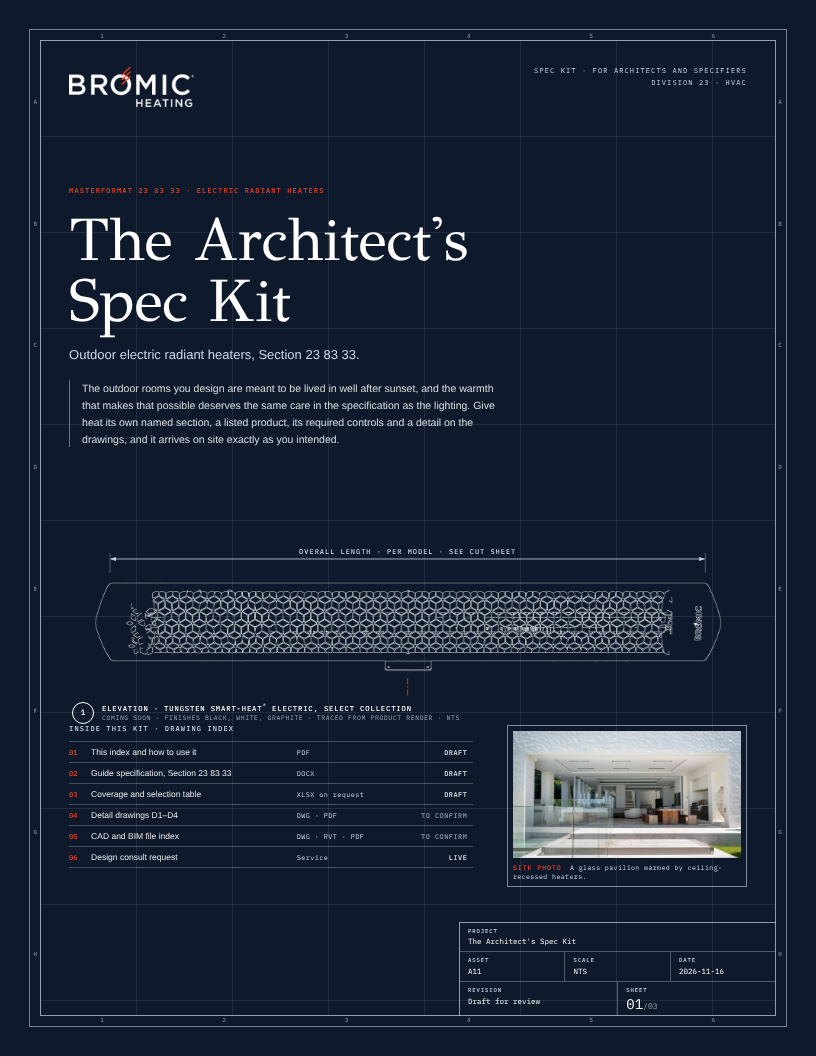
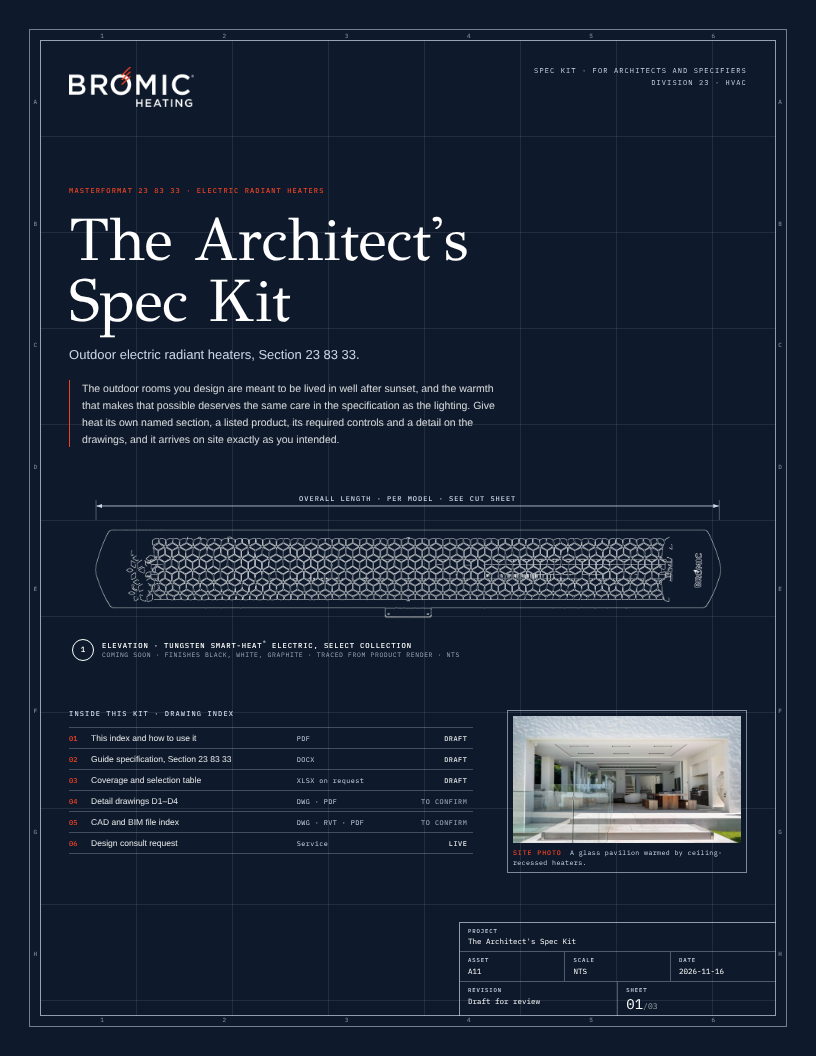
Design themes: Blueprint sample done; four-theme board

Changed region(s): [[0.0919, 0.4688, 0.8885, 0.6875], [0.0613, 0.6562, 0.5821, 0.8125], [0.6127, 0.6562, 0.9191, 0.8438]]

diff --git a/reports/themes/blueprint/sample.html b/reports/themes/blueprint/sample.html
@@ -36,7 +36,7 @@ h1,h2,h3{font-family:BzDidot,Didot,serif;font-weight:400;letter-spacing:-.005em}
 .c-head h1{font-size:60px;line-height:1.02;margin:14px 0 14px;color:#fff}
 .c-sub{font:400 13px/1.4 BzSans,sans-serif;color:#C9D6E8;margin-bottom:16px}
 .c-lede{font:400 10.5px/1.6 BzSans,sans-serif;color:rgba(255,255,255,.82);max-width:4.6in;padding-left:12px;border-left:.8px solid #EF4123}
-.c-elev{position:absolute;left:.72in;right:.72in;top:5.55in}
+.c-elev{position:absolute;left:.72in;right:.72in;top:5.0in}
 .c-elev img{display:block;width:6.66in;margin:0 auto;opacity:.95}
 .c-dim{display:block;width:6.66in;margin:0 auto 2px;overflow:visible}
 .c-cl{display:block;width:6.66in;height:.19in;margin:0 auto}
@@ -46,10 +46,9 @@ figcaption{display:flex;gap:8px;align-items:center}
 figcaption b{display:block;font:500 7.2px/1.3 BzMono,monospace;letter-spacing:.12em}
 figcaption em{display:block;font:400 6.4px/1.4 BzMono,monospace;letter-spacing:.1em;font-style:normal;opacity:.75;margin-top:1px}
 .bubble{flex:none;width:22px;height:22px;border-radius:50%;border:.8px solid currentColor;display:grid;place-items:center;font:500 7.5px/1 BzMono,monospace;position:relative}
-.bubble::after{content:"";position:absolute;left:100%;top:50%;width:3.2in;border-top:.6px solid currentColor;opacity:.0}
-.c-elev figcaption{margin:6px 0 0 .03in;color:#fff}
+.c-elev figcaption{margin:14px 0 0 .03in;color:#fff}
 .c-elev figcaption em{color:#C9D6E8}
-.c-low{position:absolute;left:.72in;right:.72in;top:7.55in;display:grid;grid-template-columns:1fr 2.5in;gap:.35in}
+.c-low{position:absolute;left:.72in;right:.72in;top:7.4in;display:grid;grid-template-columns:1fr 2.5in;gap:.35in}
 .index .lbl{color:#C9D6E8;margin-bottom:8px}
 .index table{width:100%;border-collapse:collapse;font-size:8.5px}
 .index td{padding:5px 6px 5px 0;border-top:.5px solid rgba(201,214,232,.28);color:rgba(255,255,255,.88);vertical-align:baseline}
@@ -81,16 +80,15 @@ figcaption em{display:block;font:400 6.4px/1.4 BzMono,monospace;letter-spacing:.
 .sched table{width:100%;border-collapse:collapse;font-size:7.6px;line-height:1.35;color:#231F20}
 .sched th{font:500 5.9px/1.2 BzMono,monospace;letter-spacing:.13em;text-align:left;color:#6B7480;padding:6px 6px 5px 0;border-bottom:.5px solid #B9C3D0}
 .sched td{padding:5px 7px 5px 0;border-bottom:.5px solid #B9C3D0;vertical-align:top}
-.sched td.m{font:400 7.2px/1.35 BzMono,monospace;white-space:nowrap}
-.sched td.ser{font-weight:700;color:#231F20;width:1.25in}
-.sched td.ctl{width:1.6in}
+.sched table.eq{table-layout:fixed}.sched td.m{font:400 7px/1.4 BzMono,monospace}
+.sched td.ser{font-weight:700;color:#231F20}
 .sched td.tag span{display:inline-grid;place-items:center;width:22px;height:13px;border:.7px solid #1C2B44;font:500 6.4px BzMono,monospace;color:#1C2B44}
 .sched tr.soon td{color:#5d5a5b}
 .soon-t{font:500 6px BzMono,monospace;letter-spacing:.1em;text-transform:uppercase;color:#EF4123;white-space:nowrap}
 .sched .tc{color:#6B7480;font-style:italic}
 .fn{font:400 6.4px/1.45 BzMono,monospace;color:#6B7480;margin-top:6px;letter-spacing:.02em}
-.dwgs{position:absolute;left:.72in;right:.72in;top:4.62in;display:grid;grid-template-columns:4.05in 1fr;gap:.25in}
-.lower{position:absolute;left:.72in;right:.72in;top:8.06in;display:grid;grid-template-columns:4.05in 1fr;gap:.25in}
+.dwgs{position:absolute;left:.72in;right:.72in;top:4.4in;display:grid;grid-template-columns:4.05in 1fr;gap:.25in}
+.lower{position:absolute;left:.72in;right:.72in;top:7.42in;display:grid;grid-template-columns:4.05in 1fr;gap:.25in}
 .panel{color:#1C2B44;position:relative}
 .panel figcaption{margin-top:4px;padding-top:6px;border-top:.6px solid #1C2B44}
 .dwg{display:block;width:100%;height:auto;overflow:visible}
@@ -112,9 +110,13 @@ figcaption em{display:block;font:400 6.4px/1.4 BzMono,monospace;letter-spacing:.
 .dwg .zonet{font:500 6px BzMono,monospace;letter-spacing:.14em;fill:#EF4123}
 .dwg .wifi{stroke:#1C2B44;stroke-width:.6;stroke-dasharray:2 2;fill:none}
 .dwg .furnp{fill:#fff;stroke:#6B7480;stroke-width:.6}
-.dwg .foot{fill:rgba(239,65,35,.05);stroke:#EF4123;stroke-width:.6;stroke-dasharray:3 2}
+.dwg .foot{fill:rgba(239,65,35,.035);stroke:#EF4123;stroke-width:.6;stroke-dasharray:3 2}
 .dwg .zone{stroke:#1C2B44;stroke-width:.6;stroke-dasharray:10 3 2 3;fill:none}
 .dwg .ctl{fill:#fff;stroke:#1C2B44;stroke-width:.7}
+.mf{position:absolute;left:.72in;right:.72in;top:5.55in}
+.mf .hdr{display:flex;justify-content:space-between;border-bottom:.9px solid #1C2B44;padding-bottom:5px;margin-bottom:10px;color:#1C2B44}
+.mf .hdr .r{color:#EF4123}
+.dwg .box.hi{stroke:#EF4123;stroke-width:1}.dwg .hit{fill:#EF4123}
 .notes .lbl{color:#1C2B44;border-bottom:.9px solid #1C2B44;padding-bottom:5px;margin-bottom:6px}
 .notes ol{list-style:none;counter-reset:n}
 .notes li{counter-increment:n;position:relative;padding:0 0 5px 18px;font-size:7.4px;line-height:1.45;color:#3a3637}
@@ -123,12 +125,12 @@ figcaption em{display:block;font:400 6.4px/1.4 BzMono,monospace;letter-spacing:.
 .strip .cell{padding:5px 7px;border-right:.5px solid #B9C3D0;display:flex;flex-direction:column;justify-content:space-between;white-space:nowrap}
 .strip .cell:last-child{border-right:0}
 .strip .cell.grow{flex:1;white-space:normal}
-.strip .cell.grow span{font-size:5.4px;line-height:1.35;color:#6B7480}
+.strip .cell.grow span{font-size:6px;line-height:1.35;color:#6B7480}
 .strip b{font-weight:500;font-size:5.4px;letter-spacing:.16em;color:#6B7480}
 .strip .sheet span{font-size:15px;line-height:1;color:#1C2B44}.strip .sheet i{font-style:normal;font-size:8px;color:#6B7480}
 
 /* ---- sheet 3 ---- */
-.p3{position:absolute;left:.72in;right:.72in;top:1.5in;display:grid;grid-template-columns:4.15in 1fr;gap:.3in}
+.p3{position:absolute;left:.72in;right:.72in;top:1.45in;display:grid;grid-template-columns:4.15in 1fr;gap:.3in}
 .legend{display:flex;flex-wrap:wrap;gap:4px 12px;margin-top:6px;font:500 5.8px BzMono,monospace;letter-spacing:.1em;color:#1C2B44}
 .legend span{display:flex;align-items:center;gap:5px}
 .legend i{display:inline-grid;place-items:center;font:500 4.6px BzMono,monospace;font-style:normal}
@@ -140,19 +142,20 @@ figcaption em{display:block;font:400 6.4px/1.4 BzMono,monospace;letter-spacing:.
 .checks li{display:grid;grid-template-columns:12px 18px 1fr;gap:6px;align-items:start;padding:6.4px 0;border-bottom:.5px solid #B9C3D0;font-size:8.2px;line-height:1.42;color:#3a3637}
 .checks .bx{width:9px;height:9px;border:.8px solid #1C2B44;margin-top:1.5px}
 .checks .no{font:500 6.4px/1.9 BzMono,monospace;color:#EF4123}
-.cta{position:absolute;left:.42in;right:.42in;top:6.62in;height:2.6in;background:#0E1A2B;color:#fff;display:grid;grid-template-columns:2.15in 1fr;gap:.35in;padding:.3in .3in .3in .3in;overflow:hidden}
+.cta{position:absolute;left:.42in;right:.42in;top:7.3in;height:2.2in;background:#0E1A2B;color:#fff;display:grid;grid-template-columns:2.15in 1fr;gap:.35in;padding:.3in .3in .3in .3in;overflow:hidden}
 .cta-grid{position:absolute;inset:0;background-image:linear-gradient(rgba(201,214,232,.08) .6px,transparent .6px),linear-gradient(90deg,rgba(201,214,232,.08) .6px,transparent .6px);background-size:1in 1in;background-position:-.42in -.62in}
-.cta>*{position:relative}
+.cta>*{position:relative}.cta>.cta-grid{position:absolute}
 .cta .plate{border-color:rgba(201,214,232,.6)}
-.cta .plate-img{height:1.6in}
+.cta .plate-img{height:1.28in}
 .cta-body{display:flex;flex-direction:column;justify-content:center}
-.cta h3{font-size:25px;line-height:1.18;margin:9px 0 18px;max-width:4.3in}
+.cta h3{font-size:23px;line-height:1.2;margin:8px 0 14px;max-width:4.3in}
 .btn{align-self:flex-start;display:inline-flex;gap:14px;align-items:center;background:#EF4123;color:#fff;font:500 8px/1 BzMono,monospace;letter-spacing:.18em;padding:10px 16px;text-decoration:none}
-.addr{font:400 6.2px/1.5 BzMono,monospace;letter-spacing:.1em;color:#C9D6E8;margin-top:16px}
-.disc{position:absolute;left:.72in;right:.72in;top:9.42in;font-size:6.6px;line-height:1.5;color:#6B7480}
+.addr{font:400 6.2px/1.6 BzMono,monospace;letter-spacing:.1em;color:#C9D6E8;margin-top:12px;max-width:3.9in}
+.disc{position:absolute;left:.72in;right:.72in;top:9.62in;font-size:6.6px;line-height:1.5;color:#6B7480}
 </style></head><body><svg width="0" height="0" style="position:absolute"><defs>
   <marker id="arDs" viewBox="0 0 10 10" refX="0" refY="5" markerWidth="7" markerHeight="7" orient="auto"><path d="M10 1.5 L0 5 L10 8.5" fill="#1C2B44"/></marker>
   <marker id="arDe" viewBox="0 0 10 10" refX="10" refY="5" markerWidth="7" markerHeight="7" orient="auto"><path d="M0 1.5 L10 5 L0 8.5" fill="#1C2B44"/></marker>
+  <marker id="arFe" viewBox="0 0 10 10" refX="10" refY="5" markerWidth="7" markerHeight="7" orient="auto"><path d="M0 1.5 L10 5 L0 8.5" fill="#EF4123"/></marker>
   <marker id="arWs" viewBox="0 0 10 10" refX="0" refY="5" markerWidth="7" markerHeight="7" orient="auto"><path d="M10 1.5 L0 5 L10 8.5" fill="#C9D6E8"/></marker>
   <marker id="arWe" viewBox="0 0 10 10" refX="10" refY="5" markerWidth="7" markerHeight="7" orient="auto"><path d="M0 1.5 L10 5 L0 8.5" fill="#C9D6E8"/></marker>
   <pattern id="hatch" width="5" height="5" patternUnits="userSpaceOnUse" patternTransform="rotate(45)"><line x1="0" y1="0" x2="0" y2="5" stroke="#1C2B44" stroke-width=".5"/></pattern>
@@ -170,10 +173,9 @@ figcaption em{display:block;font:400 6.4px/1.4 BzMono,monospace;letter-spacing:.
     <p class="c-lede">The outdoor rooms you design are meant to be lived in well after sunset, and the warmth that makes that possible deserves the same care in the specification as the lighting. Give heat its own named section, a listed product, its required controls and a detail on the drawings, and it arrives on site exactly as you intended.</p>
   </div>
   <figure class="c-elev">
-    <svg viewBox="0 0 640 40" class="c-dim"><g><line x1="22" y1="40" x2="22" y2="20" class="ext"/><line x1="618" y1="40" x2="618" y2="20" class="ext"/><line x1="22.5" y1="26" x2="617.5" y2="26" stroke="#C9D6E8" stroke-width=".8" marker-start="url(#arWs)" marker-end="url(#arWe)"/>
+    <svg viewBox="0 0 640 40" class="c-dim"><g><line x1="8" y1="40" x2="8" y2="20" class="ext"/><line x1="632" y1="40" x2="632" y2="20" class="ext"/><line x1="8.5" y1="26" x2="631.5" y2="26" stroke="#C9D6E8" stroke-width=".8" marker-start="url(#arWs)" marker-end="url(#arWe)"/>
   <text x="320" y="21" class="dimt" text-anchor="middle" fill="#C9D6E8">OVERALL LENGTH · PER MODEL · SEE CUT SHEET</text></g></svg>
     <img src="img/select-front-line.png" alt="Elevation of a Tungsten Smart-Heat Electric heater, Select collection, traced from a product render">
-    <svg viewBox="0 0 640 18" class="c-cl"><line x1="320" y1="0" x2="320" y2="18" stroke="#EF4123" stroke-width=".8" stroke-dasharray="6 2 1.5 2"/></svg>
     <figcaption><span class="bubble">1</span><span><b>ELEVATION · TUNGSTEN SMART-HEAT<sup>®</sup> ELECTRIC, SELECT COLLECTION</b><em>COMING SOON · FINISHES BLACK, WHITE, GRAPHITE · TRACED FROM PRODUCT RENDER · NTS</em></span></figcaption>
   </figure>
   <div class="c-low">
@@ -207,11 +209,11 @@ figcaption em{display:block;font:400 6.4px/1.4 BzMono,monospace;letter-spacing:.
   </header>
   <div class="sched">
     <div class="hdr"><span class="lbl">EQUIPMENT SCHEDULE · ELECTRIC RADIANT HEATERS</span><span class="lbl r">CONTROLS ARE REQUIRED ON EVERY HEATER</span></div>
-    <table>
+    <table class="eq"><colgroup><col style="width:32px"><col style="width:118px"><col style="width:54px"><col style="width:74px"><col style="width:62px"><col><col style="width:150px"></colgroup>
       <thead><tr><th>TAG</th><th>SERIES</th><th>STATUS</th><th>OUTPUT</th><th>APPROX. COVERAGE</th><th>MOUNTING</th><th>CONTROLS (REQUIRED)</th></tr></thead>
       <tbody>
       <tr>
-  <td class="tag"><span>H1</span></td><td class="ser">Platinum Smart-Heat<sup>®</sup> Electric</td><td>Current</td><td class="m">2300 · 3400 · 4500 W</td><td class="m">65–143 ft²</td><td>Recessed, ceiling, wall · Classic and Marine</td><td class="ctl">Affinity On/Off or Dimmer controller + manual wall switch</td></tr>
+  <td class="tag"><span>H1</span></td><td class="ser">Platinum Smart-Heat<sup>®</sup> Electric</td><td>Current</td><td class="m">2300, 3400,<br>4500 W</td><td class="m">65–143 ft²</td><td>Recessed, ceiling, wall · Classic and Marine</td><td class="ctl">Affinity On/Off or Dimmer controller + manual wall switch</td></tr>
       <tr>
   <td class="tag"><span>H2</span></td><td class="ser">Eclipse Smart-Heat<sup>®</sup> Electric</td><td>Current</td><td class="m">33 · 66 · 100 %</td><td class="m">121 ft²</td><td>Single pole 8", 24" or 48"; double pole; curved pole</td><td class="ctl">Affinity Eclipse controller + manual wall switch</td></tr>
       <tr>
@@ -226,67 +228,68 @@ figcaption em{display:block;font:400 6.4px/1.4 BzMono,monospace;letter-spacing:.
   </div>
   <div class="dwgs">
     <figure class="panel w">
-      <svg viewBox="0 0 450 318" class="dwg" role="img" aria-label="Section showing minimum mounting heights of 72 in for wall and 96 in for ceiling heaters">
+      <svg viewBox="0 0 450 280" class="dwg" role="img" aria-label="Section showing minimum mounting heights of 72 in for wall and 96 in for ceiling heaters">
   <!-- structure -->
-  <rect x="40" y="20" width="372" height="16" fill="url(#hatch)" class="cut"/>
+  <rect x="40" y="20" width="372" height="16" class="cut" style="fill:url(#hatch)"/>
   <path d="M412 16 l6 6 -10 6 10 6 -6 6" class="thin" fill="none"/>
-  <rect x="40" y="282" width="372" height="16" fill="url(#hatch)" class="cut"/>
-  <path d="M412 278 l6 6 -10 6 10 6 -6 6" class="thin" fill="none"/>
-  <rect x="40" y="36" width="16" height="246" fill="url(#hatch)" class="cut"/>
-  <line x1="56" y1="36" x2="412" y2="36" class="obj"/><line x1="56" y1="282" x2="412" y2="282" class="obj"/>
+  <rect x="40" y="250" width="372" height="16" class="cut" style="fill:url(#hatch)"/>
+  <path d="M412 246 l6 6 -10 6 10 6 -6 6" class="thin" fill="none"/>
+  <rect x="40" y="36" width="16" height="214" class="cut" style="fill:url(#hatch)"/>
+  <line x1="56" y1="36" x2="412" y2="36" class="obj"/><line x1="56" y1="250" x2="412" y2="250" class="obj"/>
   <!-- furniture, lounge table and chairs in elevation -->
   <g class="furn">
-    <rect x="246" y="218.2" width="96" height="3"/><line x1="254" y1="221.2" x2="254" y2="282"/><line x1="334" y1="221.2" x2="334" y2="282"/>
-    <path d="M226 282 V244.6 H246 M226 244.6 V207.2"/><path d="M362 282 V244.6 H342 M362 244.6 V207.2"/>
+    <rect x="246" y="192" width="96" height="3"/><line x1="254" y1="195" x2="254" y2="250"/><line x1="334" y1="195" x2="334" y2="250"/>
+    <path d="M226 250 V216 H246 M226 216 V182"/><path d="M362 250 V216 H342 M362 216 V182"/>
   </g>
   <!-- radiant field -->
-  <g class="ray"><path d="M268 68.6 L236 202.8 M296 68.6 L294 202.8 M324 68.6 L352 202.8"/>
-  <path d="M86 119.2 L224 194 M84 128 L190 246.8"/></g>
+  <g class="ray"><path d="M286 56 L272 178 M312 56 L312 178 M338 56 L352 178"/>
+  <path d="M88 100 L128 118 M86 108 L120 136 M90 92 L134 98"/></g>
   <!-- ceiling-mounted heater, bracket to soffit -->
-  <line x1="276" y1="36" x2="276" y2="59.8" class="obj"/><line x1="316" y1="36" x2="316" y2="59.8" class="obj"/>
-  <rect x="252" y="59.8" width="88" height="8.8" class="heat"/>
-  <line x1="258" y1="68" x2="334" y2="68" stroke="#EF4123" stroke-width="1"/>
+  <line x1="292" y1="36" x2="292" y2="48" class="obj"/><line x1="332" y1="36" x2="332" y2="48" class="obj"/>
+  <rect x="268" y="48" width="88" height="8" class="heat"/>
+  <line x1="274" y1="55.4" x2="350" y2="55.4" stroke="#EF4123" stroke-width="1"/>
   <!-- wall-mounted heater on bracket, tilted toward the occupied zone -->
-  <line x1="56" y1="108.2" x2="70" y2="108.2" class="obj"/>
-  <g transform="rotate(18 70 114.8)"><rect x="66" y="108.2" width="24" height="15.4" class="heat"/><line x1="90" y1="110.4" x2="90" y2="121.4" stroke="#EF4123" stroke-width="1"/></g>
+  <line x1="56" y1="92" x2="70" y2="92" class="obj"/>
+  <g transform="rotate(18 70 98)"><rect x="66" y="92" width="24" height="14" class="heat"/><line x1="90" y1="94" x2="90" y2="104" stroke="#EF4123" stroke-width="1"/></g>
   <!-- wall switch and controller -->
-  <rect x="56" y="167.6" width="6" height="10" class="cut" fill="#fff"/>
-  <rect x="56" y="141.2" width="9" height="14" class="cut" fill="#fff"/>
+  <rect x="56" y="146" width="6" height="10" class="cut" style="fill:#fff"/>
+  <rect x="56" y="122" width="9" height="14" class="cut" style="fill:#fff"/>
   <!-- dimensions -->
-  <line x1="82" y1="123.6" x2="128" y2="123.6" class="ext"/><line x1="82" y1="282" x2="128" y2="282" class="ext"/><line x1="122" y1="124.1" x2="122" y2="281.5" stroke="#1C2B44" stroke-width=".8" marker-start="url(#arDs)" marker-end="url(#arDe)"/>
-  <text x="131" y="202.8" class="dimt" transform="rotate(-90 131 202.8)" text-anchor="middle" fill="#1C2B44">72 IN MIN · AFF</text>
-  <line x1="342" y1="68.6" x2="398" y2="68.6" class="ext"/><line x1="342" y1="282" x2="398" y2="282" class="ext"/><line x1="392" y1="69.1" x2="392" y2="281.5" stroke="#1C2B44" stroke-width=".8" marker-start="url(#arDs)" marker-end="url(#arDe)"/>
-  <text x="401" y="175.3" class="dimt" transform="rotate(-90 401 175.3)" text-anchor="middle" fill="#1C2B44">96 IN MIN · AFF</text>
+  <line x1="82" y1="106" x2="128" y2="106" class="ext"/><line x1="82" y1="250" x2="128" y2="250" class="ext"/><line x1="122" y1="106.5" x2="122" y2="249.5" stroke="#1C2B44" stroke-width=".8" marker-start="url(#arDs)" marker-end="url(#arDe)"/>
+  <text x="131" y="178" class="dimt" transform="rotate(-90 131 178)" text-anchor="middle" fill="#1C2B44">72 IN MIN · AFF</text>
+  <line x1="358" y1="56" x2="404" y2="56" class="ext"/><line x1="358" y1="250" x2="404" y2="250" class="ext"/><line x1="398" y1="56.5" x2="398" y2="249.5" stroke="#1C2B44" stroke-width=".8" marker-start="url(#arDs)" marker-end="url(#arDe)"/>
+  <text x="407" y="153" class="dimt" transform="rotate(-90 407 153)" text-anchor="middle" fill="#1C2B44">96 IN MIN · AFF</text>
   <!-- callouts -->
-  <circle cx="340" cy="64.2" r="1.6" fill="#1C2B44"/><polyline points="340,64.2 360,52" fill="none" stroke="#1C2B44" stroke-width=".6"/>
-  <text x="364" y="54.6" class="callt" text-anchor="start" fill="#1C2B44">CEILING-MOUNTED</text>
-  <circle cx="62" cy="152.2" r="1.6" fill="#1C2B44"/><polyline points="62,152.2 150,158.8" fill="none" stroke="#1C2B44" stroke-width=".6"/>
-  <text x="154" y="161.4" class="callt" text-anchor="start" fill="#1C2B44">AFFINITY CONTROLLER</text>
-  <circle cx="60" cy="178.6" r="1.6" fill="#1C2B44"/><polyline points="60,178.6 150,187.4" fill="none" stroke="#1C2B44" stroke-width=".6"/>
-  <text x="154" y="190" class="callt" text-anchor="start" fill="#1C2B44">MANUAL WALL SWITCH</text>
-  <text x="150" y="199.4" class="callt sub">VISIBLE FROM THE HEATED AREA</text>
-  <circle cx="88" cy="106" r="1.6" fill="#1C2B44"/><polyline points="88,106 150,88.4" fill="none" stroke="#1C2B44" stroke-width=".6"/>
-  <text x="154" y="91" class="callt" text-anchor="start" fill="#1C2B44">WALL-MOUNTED · AIMED AT THE OCCUPIED ZONE</text>
-  <text x="296" y="312" class="callt sub" text-anchor="middle">FINISHED FLOOR</text>
+  <circle cx="268" cy="52" r="1.6" fill="#1C2B44"/><polyline points="268,52 244,50" fill="none" stroke="#1C2B44" stroke-width=".6"/>
+  <text x="240" y="52.6" class="callt" text-anchor="end" fill="#1C2B44">CEILING-MOUNTED</text>
+  <circle cx="62" cy="132" r="1.6" fill="#1C2B44"/><polyline points="62,132 152,138" fill="none" stroke="#1C2B44" stroke-width=".6"/>
+  <text x="156" y="140.6" class="callt" text-anchor="start" fill="#1C2B44">AFFINITY CONTROLLER</text>
+  <circle cx="60" cy="156" r="1.6" fill="#1C2B44"/><polyline points="60,156 152,164" fill="none" stroke="#1C2B44" stroke-width=".6"/>
+  <text x="156" y="166.6" class="callt" text-anchor="start" fill="#1C2B44">MANUAL WALL SWITCH</text>
+  <text x="156" y="176" class="callt sub">VISIBLE FROM THE HEATED AREA</text>
+  <circle cx="88" cy="90" r="1.6" fill="#1C2B44"/><polyline points="88,90 160,70" fill="none" stroke="#1C2B44" stroke-width=".6"/>
+  <text x="164" y="72.6" class="callt" text-anchor="start" fill="#1C2B44">WALL-MOUNTED</text>
+  <text x="164" y="81" class="callt sub">AIM AT THE OCCUPIED ZONE</text>
+  <text x="296" y="276" class="callt sub" text-anchor="middle">FINISHED FLOOR</text>
 </svg>
       <figcaption><span class="bubble">A</span><span><b>SECTION A–A · MOUNTING HEIGHTS</b><em>PLANNING GUIDANCE MINIMUMS · CONFIRM PER MODEL IN THE CURRENT MANUAL · NTS</em></span></figcaption>
     </figure>
     <figure class="panel">
-      <svg viewBox="0 0 300 318" class="dwg" role="img" aria-label="Recessed soffit section with recess kit, blocking, cavity depth, ceiling finish and junction box">
-  <rect x="14" y="26" width="272" height="14" fill="url(#hatch)" class="cut"/>
+      <svg viewBox="-4 0 330 280" class="dwg" role="img" aria-label="Recessed soffit section with recess kit, blocking, cavity depth, ceiling finish and junction box">
+  <rect x="14" y="26" width="272" height="14" class="cut" style="fill:url(#hatch)"/>
   <rect x="34" y="40" width="18" height="112" class="cut"/><path d="M34 40L52 152M52 40L34 152" class="thin"/><rect x="248" y="40" width="18" height="112" class="cut"/><path d="M248 40L266 152M266 40L248 152" class="thin"/>
   <rect x="92" y="84" width="16" height="16" class="cut"/><path d="M92 84L108 100M108 84L92 100" class="thin"/><rect x="192" y="84" width="16" height="16" class="cut"/><path d="M192 84L208 100M208 84L192 100" class="thin"/>
   <!-- recess kit -->
   <path d="M100 100 H200 V172 M100 100 V172" class="obj" fill="none"/>
   <line x1="92" y1="100" x2="208" y2="100" class="obj"/>
   <!-- heater in kit, face flush with finish -->
-  <rect x="108" y="150" width="84" height="22" class="heat"/>
-  <path d="M112 166 H188" stroke="#EF4123" stroke-width="1.2"/>
+  <rect x="108" y="156" width="84" height="22" class="heat"/>
+  <path d="M112 175 H188" stroke="#EF4123" stroke-width="1.2"/>
   <!-- ceiling finish line -->
-  <rect x="14" y="172" width="86" height="6" fill="url(#dots)" class="cut"/><rect x="200" y="172" width="86" height="6" fill="url(#dots)" class="cut"/>
-  <line x1="100" y1="178" x2="200" y2="178" class="obj"/>
+  <rect x="14" y="172" width="86" height="6" class="cut" style="fill:url(#dots)"/><rect x="200" y="172" width="86" height="6" class="cut" style="fill:url(#dots)"/>
+  
   <!-- junction box and conduit -->
-  <rect x="220" y="112" width="18" height="14" class="cut" fill="#fff"/><path d="M220 119 H196" class="thin" stroke-dasharray="3 2"/>
+  <rect x="220" y="112" width="18" height="14" class="cut" style="fill:#fff"/><path d="M220 119 H196" class="thin" stroke-dasharray="3 2"/>
   <!-- radiant field below -->
   <g class="ray"><path d="M124 180 L104 236 M150 180 V240 M176 180 L196 236"/></g>
   <!-- tag dimensions -->
@@ -297,16 +300,16 @@ figcaption em{display:block;font:400 6.4px/1.4 BzMono,monospace;letter-spacing:.
   <!-- callouts -->
   <circle cx="52" cy="60" r="1.6" fill="#1C2B44"/><polyline points="52,60 14,12" fill="none" stroke="#1C2B44" stroke-width=".6"/>
   <text x="18" y="14.6" class="callt" text-anchor="start" fill="#1C2B44">STRUCTURE</text>
-  <circle cx="208" cy="92" r="1.6" fill="#1C2B44"/><polyline points="208,92 232,66" fill="none" stroke="#1C2B44" stroke-width=".6"/>
-  <text x="236" y="68.6" class="callt" text-anchor="start" fill="#1C2B44">BLOCKING</text>
-  <circle cx="200" cy="136" r="1.6" fill="#1C2B44"/><polyline points="200,136 232,146" fill="none" stroke="#1C2B44" stroke-width=".6"/>
-  <text x="236" y="148.6" class="callt" text-anchor="start" fill="#1C2B44">RECESS KIT</text>
-  <circle cx="238" cy="119" r="1.6" fill="#1C2B44"/><polyline points="238,119 270,100" fill="none" stroke="#1C2B44" stroke-width=".6"/>
-  <text x="266" y="102.6" class="callt" text-anchor="end" fill="#1C2B44">J-BOX</text>
-  <circle cx="250" cy="175" r="1.6" fill="#1C2B44"/><polyline points="250,175 232,206" fill="none" stroke="#1C2B44" stroke-width=".6"/>
-  <text x="236" y="208.6" class="callt" text-anchor="start" fill="#1C2B44">CEILING FINISH LINE</text>
-  <circle cx="186" cy="172" r="1.6" fill="#1C2B44"/><polyline points="186,172 150,262" fill="none" stroke="#1C2B44" stroke-width=".6"/>
-  <text x="146" y="264.6" class="callt" text-anchor="middle" fill="#1C2B44">HEATER FACE FLUSH WITH FINISH</text>
+  <circle cx="208" cy="92" r="1.6" fill="#1C2B44"/><polyline points="208,92 290,70" fill="none" stroke="#1C2B44" stroke-width=".6"/>
+  <text x="294" y="72.6" class="callt" text-anchor="start" fill="#1C2B44">BLOCKING</text>
+  <circle cx="200" cy="140" r="1.6" fill="#1C2B44"/><polyline points="200,140 290,146" fill="none" stroke="#1C2B44" stroke-width=".6"/>
+  <text x="294" y="148.6" class="callt" text-anchor="start" fill="#1C2B44">RECESS KIT</text>
+  <circle cx="238" cy="119" r="1.6" fill="#1C2B44"/><polyline points="238,119 290,112" fill="none" stroke="#1C2B44" stroke-width=".6"/>
+  <text x="294" y="114.6" class="callt" text-anchor="start" fill="#1C2B44">J-BOX</text>
+  <circle cx="250" cy="175" r="1.6" fill="#1C2B44"/><polyline points="250,175 236,206" fill="none" stroke="#1C2B44" stroke-width=".6"/>
+  <text x="240" y="208.6" class="callt" text-anchor="start" fill="#1C2B44">CEILING FINISH LINE</text>
+  <circle cx="108" cy="177" r="1.6" fill="#1C2B44"/><polyline points="108,177 40,262" fill="none" stroke="#1C2B44" stroke-width=".6"/>
+  <text x="44" y="264.6" class="callt" text-anchor="start" fill="#1C2B44">HEATER FACE FLUSH WITH FINISH</text>
 </svg>
       <figcaption><span class="bubble">D1</span><span><b>RECESSED SOFFIT SECTION</b><em>A CAVITY DEPTH · B CLEARANCE TO STRUCTURE AND COMBUSTIBLES · PER MODEL · NTS</em></span></figcaption>
     </figure>
@@ -371,14 +374,14 @@ figcaption em{display:block;font:400 6.4px/1.4 BzMono,monospace;letter-spacing:.
 </section><section class="page light">
   <div class="grid"></div><div class="zones" style="color:#6B7480"><div class="zt"><span style="left:8.333333333333334%">1</span><span style="left:25%">2</span><span style="left:41.666666666666664%">3</span><span style="left:58.333333333333336%">4</span><span style="left:75%">5</span><span style="left:91.66666666666667%">6</span></div><div class="zb"><span style="left:8.333333333333334%">1</span><span style="left:25%">2</span><span style="left:41.666666666666664%">3</span><span style="left:58.333333333333336%">4</span><span style="left:75%">5</span><span style="left:91.66666666666667%">6</span></div><div class="zl"><span style="top:6.25%">A</span><span style="top:18.75%">B</span><span style="top:31.25%">C</span><span style="top:43.75%">D</span><span style="top:56.25%">E</span><span style="top:68.75%">F</span><span style="top:81.25%">G</span><span style="top:93.75%">H</span></div><div class="zr"><span style="top:6.25%">A</span><span style="top:18.75%">B</span><span style="top:31.25%">C</span><span style="top:43.75%">D</span><span style="top:56.25%">E</span><span style="top:68.75%">F</span><span style="top:81.25%">G</span><span style="top:93.75%">H</span></div></div><div class="frame"></div>
   <header class="s-head">
-    <p class="eyebrow">03 · COVERAGE PLAN AND CHECKLIST</p>
+    <p class="eyebrow">03 · COVERAGE PLAN, CHECKLIST AND NEXT STEP</p>
     <h2>Your Planning Checklist</h2>
   </header>
   <div class="p3">
     <figure class="panel">
-      <svg viewBox="0 0 420 300" class="dwg" role="img" aria-label="Illustrative coverage plan of a dining terrace with heater positions, footprints, zones and controller locations">
+      <svg viewBox="0 -2 420 294" class="dwg" role="img" aria-label="Illustrative coverage plan of a dining terrace with heater positions, footprints, zones and controller locations">
   <defs><clipPath id="terr"><rect x="20" y="20" width="380" height="250"/></clipPath></defs>
-  <rect x="14" y="14" width="392" height="6" fill="url(#hatch)" class="cut"/><rect x="14" y="20" width="6" height="256" fill="url(#hatch)" class="cut"/>
+  <rect x="14" y="14" width="392" height="6" class="cut" style="fill:url(#hatch)"/><rect x="14" y="20" width="6" height="256" class="cut" style="fill:url(#hatch)"/>
   <path d="M20 270 H400 V20" class="thin" stroke-dasharray="8 3 2 3" fill="none"/>
   <text x="396" y="284" class="tiny" text-anchor="end">OPEN EDGE</text>
   <g clip-path="url(#terr)">
@@ -393,9 +396,9 @@ figcaption em{display:block;font:400 6.4px/1.4 BzMono,monospace;letter-spacing:.
   </g>
   <rect x="53" y="67.5" width="26" height="5" class="heat"/><rect x="53" y="147.5" width="26" height="5" class="heat"/><rect x="53" y="227.5" width="26" height="5" class="heat"/><rect x="113" y="107.5" width="26" height="5" class="heat"/><rect x="113" y="187.5" width="26" height="5" class="heat"/><rect x="197" y="77.5" width="26" height="5" class="heat"/><rect x="197" y="197.5" width="26" height="5" class="heat"/>
   <circle cx="348" cy="100" r="7" class="heat"/><circle cx="348" cy="100" r="3" fill="#EF4123"/><circle cx="348" cy="180" r="7" class="heat"/><circle cx="348" cy="180" r="3" fill="#EF4123"/>
-  <text x="85" y="36" class="zonet" text-anchor="middle">ZONE 1 · DINING</text>
-  <text x="220" y="36" class="zonet" text-anchor="middle">ZONE 2 · BAR</text>
-  <text x="345" y="36" class="zonet" text-anchor="middle">ZONE 3 · LOUNGE</text>
+  <text x="85" y="8" class="zonet" text-anchor="middle">ZONE 1 · DINING</text>
+  <text x="220" y="8" class="zonet" text-anchor="middle">ZONE 2 · BAR</text>
+  <text x="345" y="8" class="zonet" text-anchor="middle">ZONE 3 · LOUNGE</text>
   <rect x="26" y="254" width="18" height="10" class="ctl"/><text x="35" y="261.5" class="tiny" text-anchor="middle">C1</text><circle cx="56" cy="259" r="5" class="ctl"/><text x="56" y="261.5" class="tiny" text-anchor="middle">S</text><rect x="156" y="254" width="18" height="10" class="ctl"/><text x="165" y="261.5" class="tiny" text-anchor="middle">C2</text><circle cx="186" cy="259" r="5" class="ctl"/><text x="186" y="261.5" class="tiny" text-anchor="middle">S</text><rect x="296" y="254" width="18" height="10" class="ctl"/><text x="305" y="261.5" class="tiny" text-anchor="middle">C3</text><circle cx="326" cy="259" r="5" class="ctl"/><text x="326" y="261.5" class="tiny" text-anchor="middle">S</text>
 </svg>
       <figcaption><span class="bubble">D4</span><span><b>COVERAGE PLAN · DINING TERRACE</b><em>ILLUSTRATIVE · FOOTPRINT AREAS FROM THE SCHEDULE · SHAPES INDICATIVE · NTS</em></span></figcaption>
@@ -407,17 +410,42 @@ figcaption em{display:block;font:400 6.4px/1.4 BzMono,monospace;letter-spacing:.
       <ol class="checks"><li><span class="bx"></span><span class="no">01</span><span>Space confirmed as outdoor (at least 30% of the perimeter permanently open).</span></li><li><span class="bx"></span><span class="no">02</span><span>Heater series chosen by use: seated, standing, lounge; coastal exposure noted.</span></li><li><span class="bx"></span><span class="no">03</span><span>Coverage plan (D4) drawn over the furniture layout and checked by Bromic's design team.</span></li><li><span class="bx"></span><span class="no">04</span><span>Controls scheduled for every zone: controller type, wall switch, app, any integration.</span></li><li><span class="bx"></span><span class="no">05</span><span>Mounting heights and clearances taken from the current installation manual for each model.</span></li><li><span class="bx"></span><span class="no">06</span><span>Recess cavities and blocking shown on the architectural sections (D1).</span></li><li><span class="bx"></span><span class="no">07</span><span>Circuits, voltage and disconnects coordinated with the electrical engineer.</span></li><li><span class="bx"></span><span class="no">08</span><span>Energy code check: does the AHJ require occupancy or timer control for outdoor heat?</span></li><li><span class="bx"></span><span class="no">09</span><span>Substitution approach (Option A or B) agreed with the Owner.</span></li><li><span class="bx"></span><span class="no">10</span><span>Tungsten Coastal and Select only where Bromic confirms availability for the programme.</span></li></ol>
     </div>
   </div>
+  <figure class="mf panel">
+    <div class="hdr"><span class="lbl">THE RIGHT HOME IN MASTERFORMAT</span><span class="lbl r">SECTION 23 83 33</span></div>
+    <svg viewBox="0 0 680 136" class="dwg" role="img" aria-label="MasterFormat tree: Division 23, 23 83 00 radiant heating units, 23 83 33 electric radiant heaters recommended">
+  <path d="M92 66 H116 M116 21 V123 M116 21 H140 M116 93 H140 M116 123 H140 M270 21 H300 M300 10 V58 M300 10 H330 M300 34 H330 M300 58 H330" class="obj" style="stroke-width:.7"/>
+  <rect x="0" y="51" width="92" height="30" class="box"/>
+  <text x="7" y="65" class="boxt">DIVISION 23</text><text x="7" y="73" class="boxs">HVAC</text>
+  <rect x="140" y="8" width="130" height="26" class="box"/>
+  <text x="147" y="20" class="boxt">23 83 00</text><text x="147" y="28" class="boxs">RADIANT HEATING UNITS</text>
+  <rect x="140" y="80" width="130" height="26" class="box"/>
+  <text x="147" y="92" class="boxt">23 82 39</text><text x="147" y="100" class="boxs">UNIT HEATERS</text>
+  <rect x="140" y="110" width="130" height="26" class="box"/>
+  <text x="147" y="122" class="boxt">23 55 23</text><text x="147" y="130" class="boxs">GAS-FIRED RADIANT HEATERS</text>
+  <rect x="330" y="0" width="150" height="20" class="box"/>
+  <text x="337" y="9" class="boxt">23 83 13</text><text x="337" y="17" class="boxs">RADIANT HEATING ELECTRIC CABLES AND MATS</text>
+  <rect x="330" y="24" width="150" height="20" class="box"/>
+  <text x="337" y="33" class="boxt">23 83 23</text><text x="337" y="41" class="boxs">RADIANT HEATING ELECTRIC PANELS</text>
+  <rect x="330" y="48" width="150" height="20" class="box hi"/>
+  <text x="337" y="57" class="boxt hit">23 83 33</text><text x="337" y="65" class="boxs">ELECTRIC RADIANT HEATERS</text>
+  <path d="M480 58 H498" stroke="#EF4123" stroke-width=".8" marker-end="url(#arFe)"/>
+  <text x="504" y="56" class="boxt hit">RECOMMENDED</text><text x="504" y="64.5" class="boxs">A SELF-CONTAINED ELECTRIC INFRARED EMITTER</text>
+  <text x="280" y="91" class="boxs">CONVECTION UNITS THAT MOVE WARM AIR · OUTDOORS IT RISES AND DRIFTS AWAY</text>
+  <text x="280" y="99.5" class="boxs">A POOR MATCH FOR OUTDOOR SPACES</text>
+  <text x="280" y="121" class="boxs">THE HOME FOR GAS RADIANT EQUIPMENT · WRITE BROMIC GAS HEATERS HERE AS A SEPARATE SECTION</text>
+</svg>
+  </figure>
   <div class="cta">
     <div class="cta-grid"></div>
     <figure class="plate sm">
-      <div class="plate-img" style="background-image:url(../../../images/library/t-006-016.webp)"></div>
+      <div class="plate-img" style="background-image:url(../../../images/library/t-006-016.webp);background-position:50% 8%"></div>
       <figcaption><b>SITE PHOTO</b> A heater recessed into a timber soffit on a city roof terrace.</figcaption>
     </figure>
     <div class="cta-body">
       <p class="eyebrow">DESIGN SERVICE · COMPLIMENTARY</p>
       <h3>Send us your plan, and we will return a coverage drawing tailored to your specification.</h3>
       <a class="btn">BOOK A DESIGN CONSULT <span>→</span></a>
-      <p class="addr">BROMIC HEATING · 7595 IRVINE CENTER DRIVE, SUITE 100, IRVINE, CA 92618 · 1-800-301-1293 · WWW.BROMIC.COM</p>
+      <p class="addr">BROMIC HEATING · 7595 IRVINE CENTER DRIVE, SUITE 100, IRVINE, CA 92618<br>1-800-301-1293 · WWW.BROMIC.COM</p>
     </div>
   </div>
   <p class="disc">This guide specification is a starting point for your professional judgement. Codes, listings and manufacturer requirements change. Confirm every requirement with the authority having jurisdiction and a licensed electrician, and use the manufacturer's current installation instructions for the model specified. Imagery is for design inspiration; product scale and placement may vary from actual specifications.</p>
